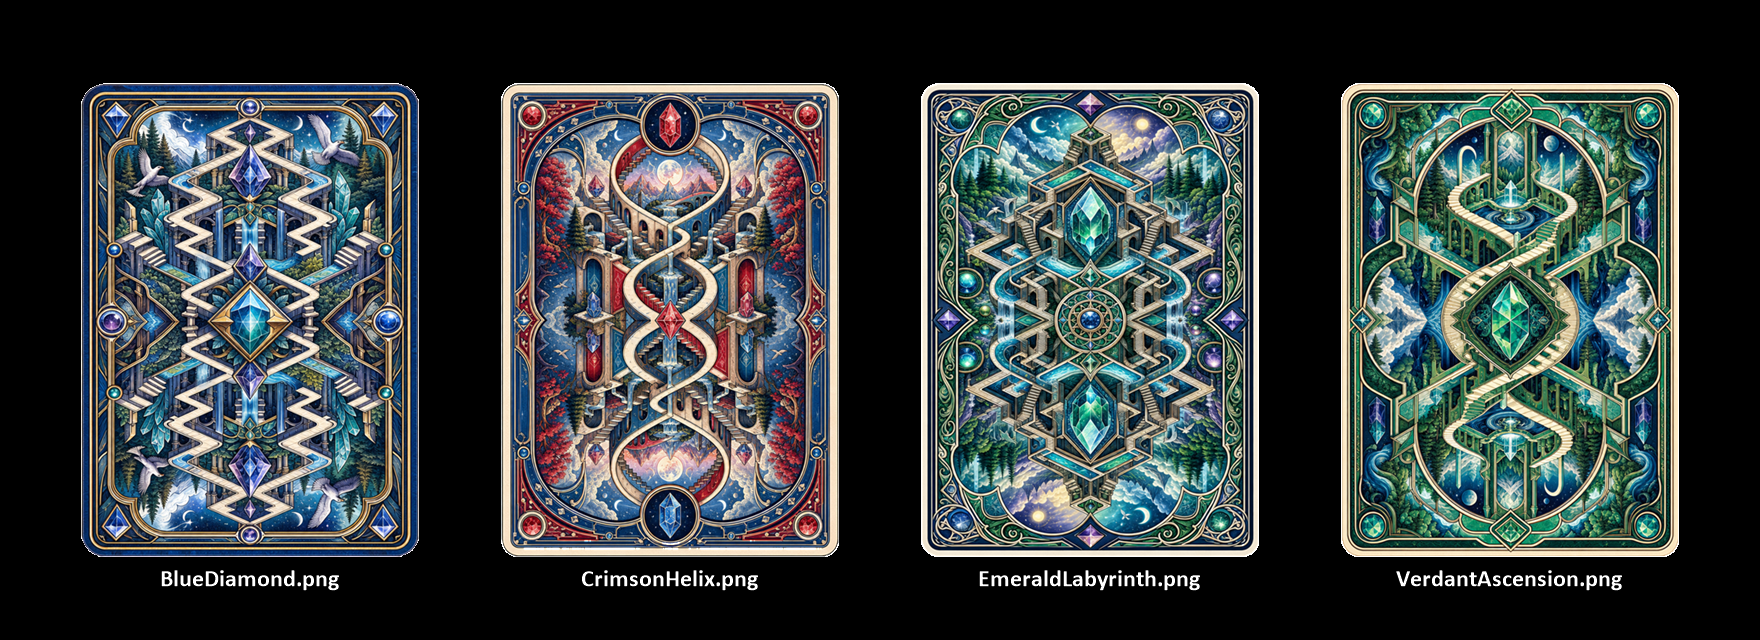
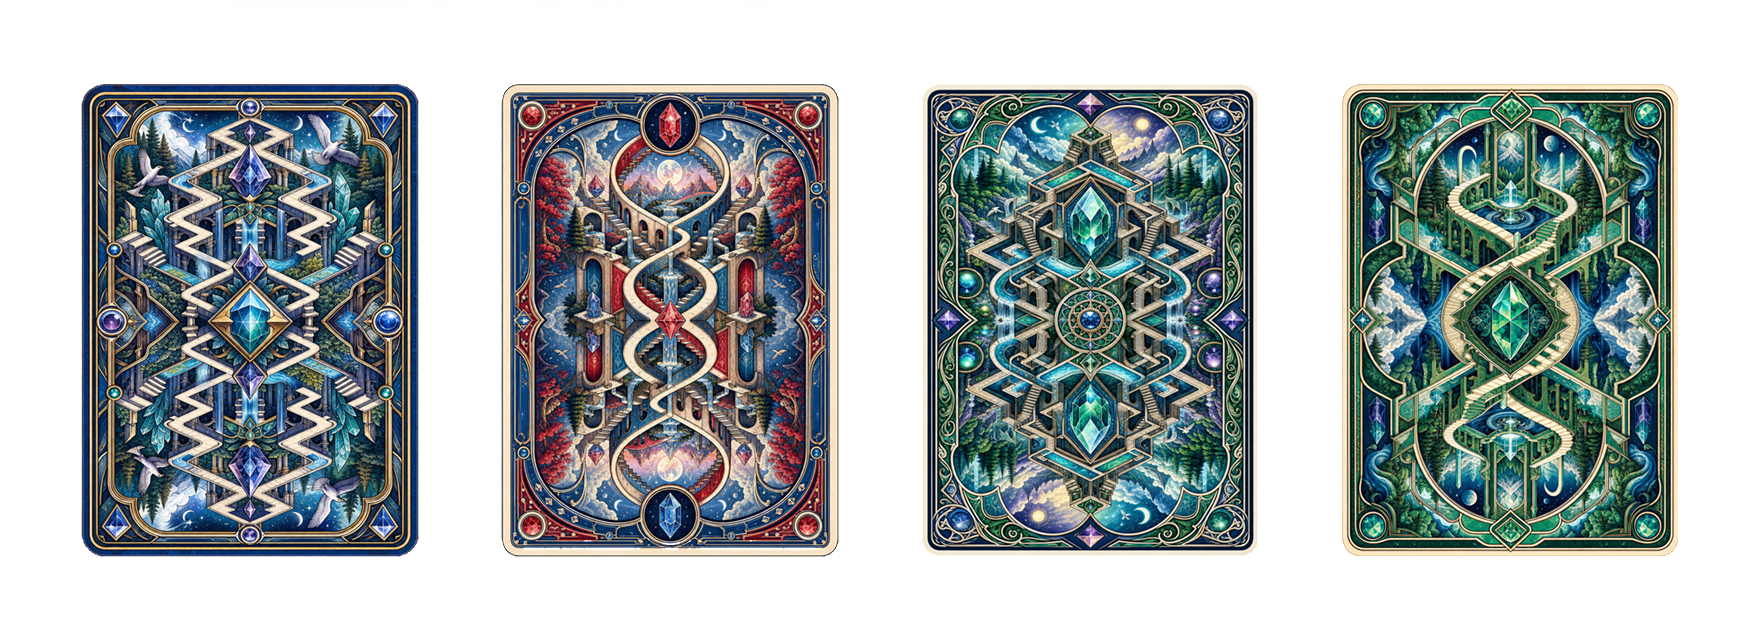
Checking in after fixing the CardPreview to be a transparent background, looks better.

diff --git a/ReadMe.md b/ReadMe.md
@@ -124,13 +124,13 @@ If you find these images worth the price.
 
 ### Card Backs
 <div align="center" style="display: flex; flex-wrap: wrap; justify-content: center; gap: 12px; margin-bottom: 20px;">
-<img src="https://github.com/DataJuggler/TheGildedDeck/blob/master/CardBacks/CardBacksPreview.png?raw=true" width="160" height="224" alt="Emerald Labyrinth"/><br>
+<img src="https://github.com/DataJuggler/TheGildedDeck/blob/master/CardBacks/CardBacksPreview.png?raw=true" width="704" height="256" alt="Emerald Labyrinth"/><br>
 </div>
 
 ### By Request - A Joker Was Created
 
 <div align="center" style="display: flex; flex-wrap: wrap; justify-content: center; gap: 12px; margin-bottom: 20px;">
-  <img src="https://github.com/DataJuggler/TheGildedDeck/blob/master/Jokers/Joker.png?raw=true" width="704" height="256" alt="Joker"/>
+  <img src="https://github.com/DataJuggler/TheGildedDeck/blob/master/Jokers/Joker.png?raw=true" width="160" height="224" alt="Joker"/>
 </div>
 
 ---